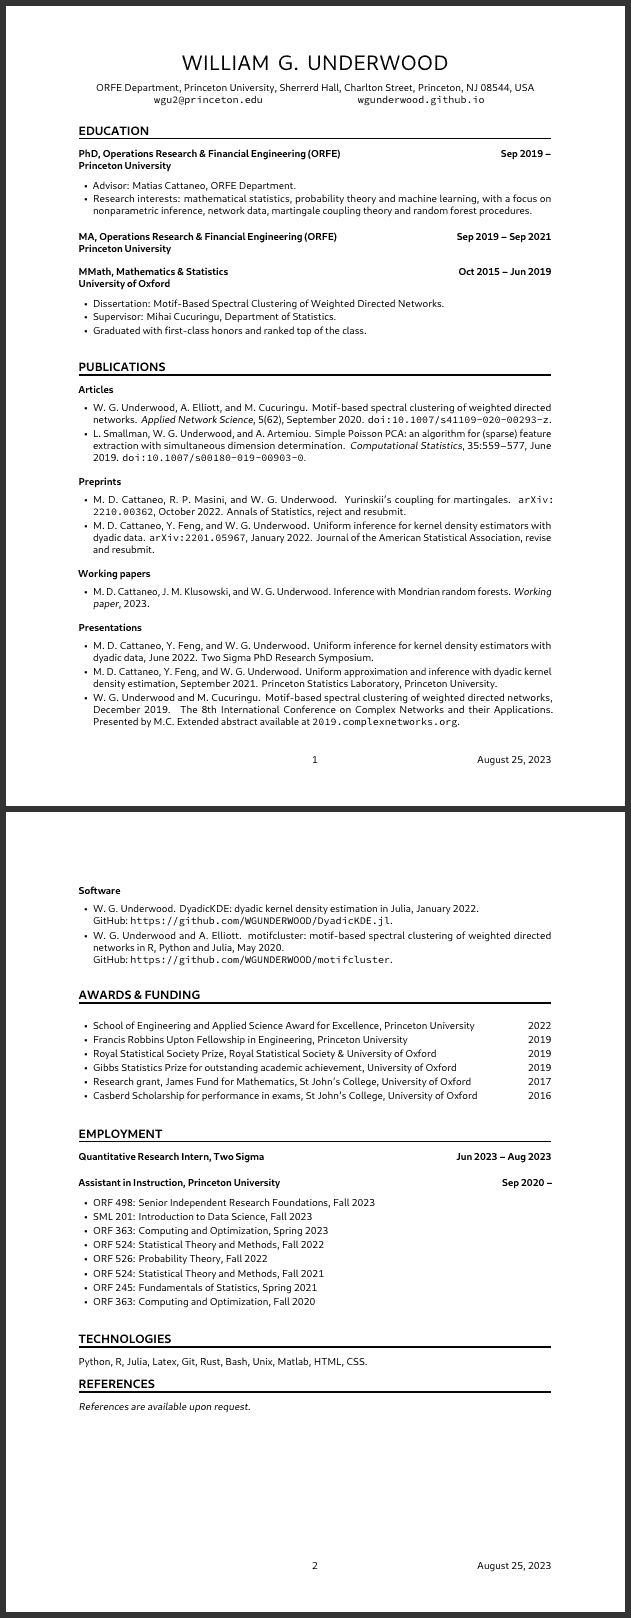
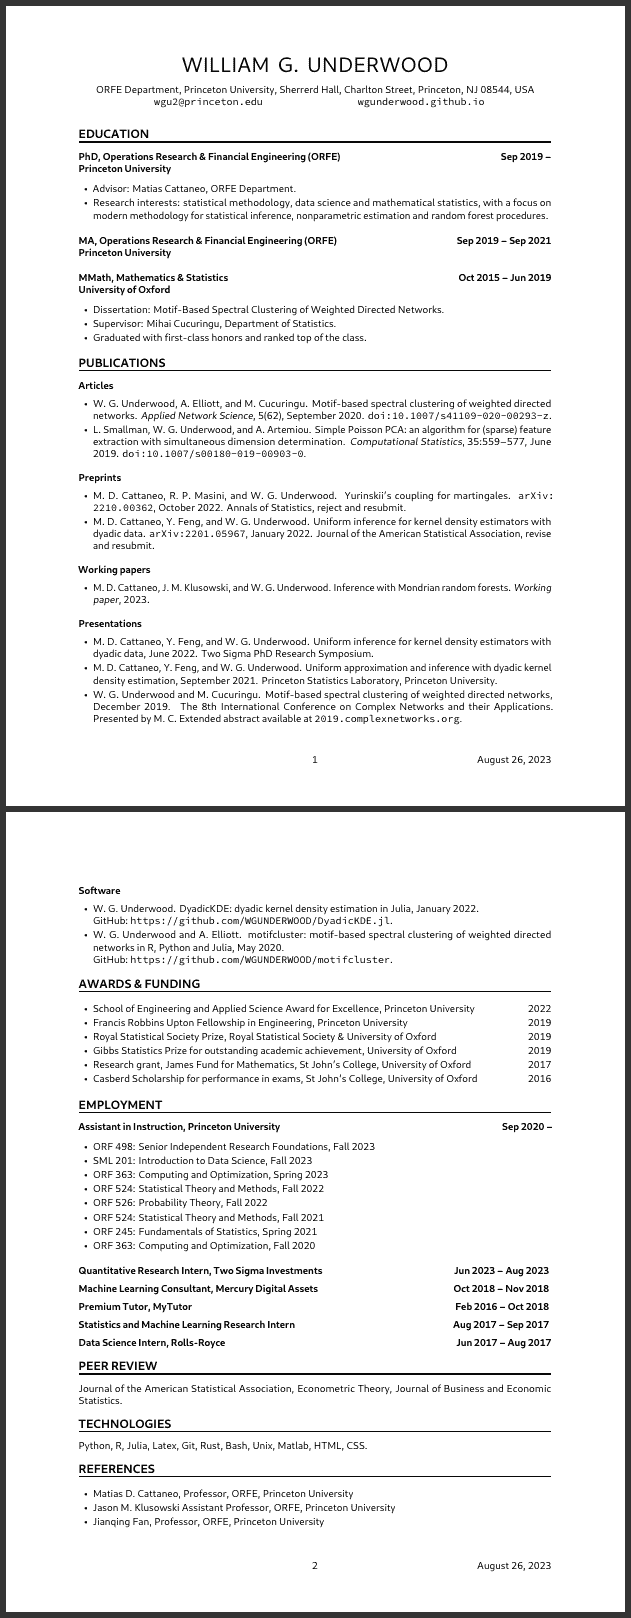
adding more employment

diff --git a/WGUnderwood.tex b/WGUnderwood.tex
@@ -49,13 +49,13 @@
   \item Advisor:
     Matias Cattaneo, ORFE Department.
   \item Research interests:
-    mathematical statistics, probability theory
-    and machine learning,
+    statistical methodology,
+    data science and
+    mathematical statistics,
     with a focus on
-    nonparametric inference,
-    network data,
-    martingale coupling theory and
-    random forest procedures.
+    modern methodology for statistical inference,
+    nonparametric estimation
+    and random forest procedures.
 \end{itemize}
 
 \cvsubsection{MA, Operations Research \& Financial Engineering (ORFE)}
@@ -76,6 +76,8 @@
     Department of Statistics.
   \item Graduated with first-class honors and ranked top of the class.
 \end{itemize}
+
+\vspace*{-4mm}
 
 % Publications
 % -------------------------------------------------------------
@@ -111,9 +113,13 @@
   \item \bibentry{UnderwoodElliott_2020_motifcluster}.
 \end{itemize}
 
+\vspace*{-4mm}
+
 % Awards & Funding
 % -------------------------------------------------------------
 \cvsection{AWARDS \& FUNDING}
+
+\vspace*{-2mm}
 
 \begin{itemize}
   \item School of Engineering and Applied Science Award for Excellence,
@@ -136,15 +142,11 @@
     \hfill 2016%
 \end{itemize}
 
+\vspace*{-4mm}
+
 % Employment
 % -------------------------------------------------------------
 \cvsection{EMPLOYMENT}
-
-\cvsubsection{Quantitative Research Intern, Two Sigma}
-{}
-{Jun 2023 -- Aug 2023}
-
-\vspace*{5mm}
 
 \cvsubsection{Assistant in Instruction, Princeton University}
 {}
@@ -194,6 +196,38 @@
 
 \end{itemize}
 
+\cvsubsection{Quantitative Research Intern, Two Sigma Investments}
+{}
+{Jun 2023 -- Aug 2023}
+\vspace*{2mm}
+
+\cvsubsection{Machine Learning Consultant, Mercury Digital Assets}
+{}
+{Oct 2018 -- Nov 2018}
+\vspace*{2mm}
+
+\cvsubsection{Premium Tutor, MyTutor}
+{}
+{Feb 2016 -- Oct 2018}
+\vspace*{2mm}
+
+\cvsubsection{Statistics and Machine Learning Research Intern}
+{}
+{Aug 2017 -- Sep 2017}
+\vspace*{2mm}
+
+\cvsubsection{Data Science Intern, Rolls-Royce}
+{}
+{Jun 2017 -- Aug 2017}
+
+% Peer review
+% -------------------------------------------------------------
+\cvsection{PEER REVIEW}
+
+Journal of the American Statistical Association,
+Econometric Theory,
+Journal of Business and Economic Statistics.
+
 % Technologies
 % -------------------------------------------------------------
 \cvsection{TECHNOLOGIES}
@@ -214,7 +248,29 @@ CSS.
 % -------------------------------------------------------------
 \cvsection{REFERENCES}
 
-\emph{References are available upon request.}
+\vspace*{-2mm}
+
+\begin{itemize}
+
+  \item
+    Matias D.\ Cattaneo,
+    Professor,
+    ORFE,
+    Princeton University
+
+  \item
+    Jason M.\ Klusowski
+    Assistant Professor,
+    ORFE,
+    Princeton University
+
+  \item
+    Jianqing Fan,
+    Professor,
+    ORFE,
+    Princeton University
+
+\end{itemize}
 
 % End document
 % -------------------------------------------------------------
